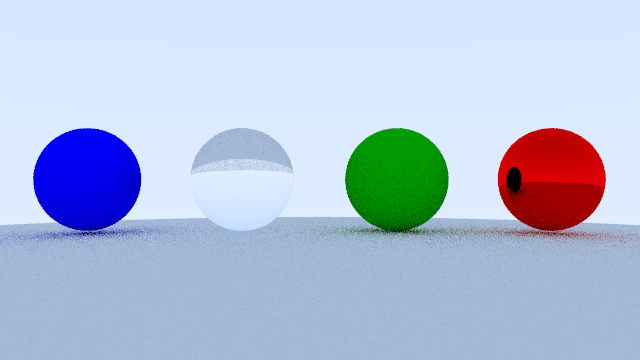
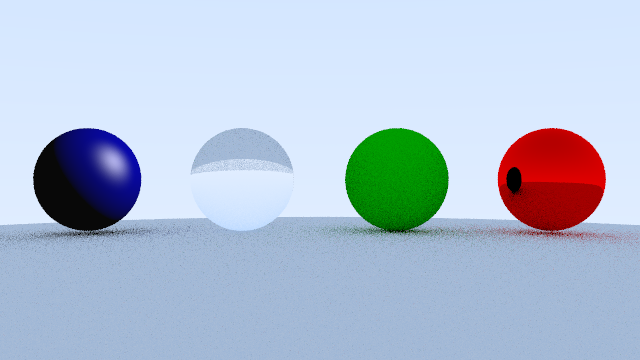
added basics, phong, and my feature

Changed region(s): [[0.0, 0.3361, 0.25, 0.6722], [0.5, 0.5806, 1.0, 0.6722], [0.7812, 0.5194, 0.8438, 0.55]]

diff --git a/src/raytracer.cpp b/src/raytracer.cpp
@@ -13,6 +13,12 @@ using namespace glm;
 using namespace agl;
 using namespace std;
 
+color air_shade;
+
+void set_air_shade(vec3 shade) {
+    air_shade = shade;
+}
+
 color ray_color(const ray& r, const hittable_list& world, int depth)
 {
    hit_record rec;
@@ -34,7 +40,7 @@ color ray_color(const ray& r, const hittable_list& world, int depth)
    }
    vec3 unit_direction = normalize(r.direction());
    auto t = 0.5f * (unit_direction.y + 1.0f);
-   return (1.0f - t) * color(1, 1, 1) + t * color(0.5f, 0.7f, 1.0f);
+   return (1.0f - t) * color(1, 1, 1) + t * air_shade;
 }
 
 color normalize_color(const color& c, int samples_per_pixel)
@@ -53,6 +59,15 @@ color normalize_color(const color& c, int samples_per_pixel)
    return color(r, g, b);
 }
 
+
+float rand_fl(float a, float b) {
+    float random = ((float)rand()) / (float)RAND_MAX;
+    float diff = b - a;
+    float r = random * diff;
+    return a + r;
+}
+
+
 void ray_trace(ppm_image& image)
 {
    // Image
@@ -62,42 +77,69 @@ void ray_trace(ppm_image& image)
    int samples_per_pixel = 10; // higher => more anti-aliasing
    int max_depth = 10; // higher => less shadow acne
 
-   // World
-   shared_ptr<material> gray = make_shared<lambertian>(color(0.5f));
+   // Camera
+   vec3 camera_pos(0, 0, 6);
+   float viewport_height = 2.0f;
+   float focal_length = 4.0;
+   camera cam(camera_pos, viewport_height, aspect, focal_length);
 
+   // World
+   shared_ptr<material> gray = make_shared<lambertian>(color(0.7f));
+   shared_ptr<material> matteGreen = make_shared<lambertian>(color(0, 0.5f, 0));
+   shared_ptr<material> planet = make_shared<metal>(color(0.74f, 0.1f, 0.38f), 0.3f);
+   shared_ptr<material> metalRed = make_shared<metal>(color(1, 0, 0), 0.3f);
+   shared_ptr<material> glass = make_shared<dielectric>(1.5f);
+   shared_ptr<material> phongDefault = make_shared<phong>(camera_pos);
 
 
    hittable_list world;
-   world.add(make_shared<sphere>(point3(0, 0, -1), 0.5f, gray));
-   world.add(make_shared<sphere>(point3(0, -100.5, -1), 100, gray));
-   shared_ptr<material> metalRed = make_shared<metal>(color(1, 0, 0), 0.3f);
-   shared_ptr<material> glass = make_shared<dielectric>(1.5f);
+
+   shared_ptr<material> space_purple = make_shared<metal>(color(0.01f, 0.01f, 0.02f), 0.3f);
+
+   world.add(make_shared<sphere>(point3(0, -100.5, -1), 100, space_purple));
 
 
-   // Camera
-   vec3 camera_pos(0);
-   float viewport_height = 2.0f;
-   float focal_length = 1.0;
-   camera cam(camera_pos, viewport_height, aspect, focal_length);
 
-   // Ray trace
-   for (int j = 0; j < height; j++)
-   {
-      for (int i = 0; i < width; i++)
-      {
-         color c(0, 0, 0);
-         for (int s = 0; s < samples_per_pixel; s++) // antialias
-         {
-            float u = float(i + random_float()) / (width - 1);
-            float v = float(height - j - 1 - random_float()) / (height - 1);
-
-            ray r = cam.get_ray(u, v);
-            c += ray_color(r, world, max_depth);
-         }
-         c = normalize_color(c, samples_per_pixel);
-         image.set_vec3(j, i, c);
-      }
+   // add planet spheres
+   for (int i = -3.5; i <= 3.5; i += 1.5) {
+       for (int j = -0.5; j <= 2.5; j += 1.25) {
+           for (int k = 0; k <= 5; k += 1.75) {
+               color new_col = color(rand_fl(0.0f, 1.0f), rand_fl(0.0f, 0.5f), rand_fl(0.0f, 1.0f));
+               world.add(make_shared<sphere>(point3(i, j, k), rand_fl(0.05f, 0.2f), make_shared<metal>(new_col, 0.3f)));
+           }
+       }
    }
 
-   image.save("raytracer.png");
+   // add spheres and raytrace them
+   for (int i = -2.5; i <= 2.5; i += 1.75) {
+       for (int j = 0.5; j <= 3.5; j += 1.5) {
+           for (int k = 0.25; k < 2.5; k += 1.25) {
+               color new_col = color(1, 1, 1);
+               world.add(make_shared<sphere>(point3(i, j, k), rand_fl(0.005f, 0.05f), make_shared<lambertian>(new_col)));
+           }
+       }
+   }
+
+   // Ray trace spheres
+   for (int j = 0; j < height; j++)
+   {
+       for (int i = 0; i < width; i++)
+       {
+           color c(0, 0, 0);
+           for (int s = 0; s < samples_per_pixel; s++) // antialias
+           {
+               float u = float(i + random_float()) / (width - 1);
+               float v = float(height - j - 1 - random_float()) / (height - 1);
+
+               ray r = cam.get_ray(u, v);
+               c += ray_color(r, world, max_depth);
+           }
+           c = normalize_color(c, samples_per_pixel);
+           image.set_vec3(j, i, c);
+       }
+   }
+
+   image.save("myspace.png");
+
+
 }

diff --git a/src/normals.cpp b/src/normals.cpp
@@ -7,12 +7,60 @@ using namespace glm;
 using namespace agl;
 using namespace std;
 
+float hit_sphere(const ray& ray, const vec3& center, float radius)
+{
+    vec3 oc = ray.origin() - center;
+    float a = dot(ray.direction(), ray.direction());
+    float b = 2.0f * dot(oc, ray.direction());
+    float c = dot(oc, oc) - radius * radius;
+
+    float discriminant = b * b - 4 * a * c;
+    if (discriminant < 0) return -1;
+    return (-b - sqrt(discriminant)) / 2 * a;
+}
+
 color ray_color(const ray& ray)
 {
-   return color(0);
+    point3 sphere_center = point3(0, 0, -1);
+    float t = hit_sphere(ray, sphere_center, 0.5f);
+    if (t > 0){
+        vec3 hit_point = ray.origin() + t * ray.direction();
+        vec3 normal = normalize(hit_point - sphere_center);
+        color color = 0.5f * (normal + vec3(1));
+        return color;
+    }
+    vec3 dir = normalize(ray.direction());
+    t = 0.5f * (dir.y + 1.0f);
+
+    color white = color(1.0f, 1.0f, 1.0f);
+    color lightBlue = color(0.5f, 0.7f, 1.0f);
+
+    return white * (1 - t) + t * lightBlue;
 }
 
 void ray_trace(ppm_image& image)
 {
-   image.save("normals.png");
+    int height = image.height();
+    int width = image.width();
+    float aspect = width / (float)height;
+    float world_height = 2.0f;
+    float world_width = world_height * aspect;
+    float focal_length = 1.0f;
+    vec3 camera_pos = vec3(0);
+    vec3 lower_left = camera_pos
+        - 0.5f * vec3(world_width, world_height, 0)
+        - vec3(0, 0, focal_length);
+    for (int i = 0; i < height; i++) // rows
+    {
+        for (int j = 0; j < width; j++) // cols
+        {
+            float u = j / ((float)width - 1);
+            float v = (height - i - 1) / ((float)height - 1);
+            vec3 world_pos = lower_left +
+                vec3(u * world_width, v * world_height, 0);
+            color c = ray_color(ray(camera_pos, world_pos - camera_pos));
+            image.set_vec3(i, j, c);
+        }
+    }
+    image.save("normals.png");
 }

diff --git a/src/silhouette.cpp b/src/silhouette.cpp
@@ -2,15 +2,61 @@
 #include "AGLM.h"
 #include "ray.h"
 
+#include "sphere.h"
+#include "camera.h"
+#include "material.h"
+#include "hittable_list.h"
 using namespace glm;
 using namespace agl;
 
+float hit_sphere(const ray& ray, const vec3& center, float radius)
+{
+    vec3 oc = ray.origin() - center;
+    float a = dot(ray.direction(), ray.direction());
+    float b = 2.0f * dot(oc, ray.direction());
+    float c = dot(oc, oc) - radius * radius;
+
+    float discriminant = b * b - 4 * a * c;
+    if (discriminant < 0) return -1;
+    return (-b - sqrt(discriminant)) / 2 * a;
+}
+
 color ray_color(const ray& ray)
 {
-   return color(0); 
+    if (hit_sphere(ray, point3(0.0f, 0.0f, -1.0f), 0.5) > 0) {
+        return color(1, 0, 0);
+    }
+
+    vec3 dir = normalize(ray.direction());
+    float t = 0.5f * (dir.y + 1.0f);
+    color white = color(1.0f, 1.0f, 1.0f);
+    color lightBlue = color(0.5f, 0.7f, 1.0f);
+    return white * (1 - t) + lightBlue * t;
 }
 
 void ray_trace(ppm_image& image)
 {
-   image.save("silhouette.ppm");
+    int height = image.height();
+    int width = image.width();
+    float aspect = width / (float)height;
+    float world_height = 2.0f;
+    float world_width = world_height * aspect;
+    float focal_length = 1.0f;
+    vec3 camera_pos = vec3(0);
+    vec3 lower_left = camera_pos
+        - 0.5f * vec3(world_width, world_height, 0)
+        - vec3(0, 0, focal_length);
+    for (int i = 0; i < height; i++) // rows
+    {
+        for (int j = 0; j < width; j++) // cols
+        {
+            float u = j / ((float)width - 1);
+            float v = (height - i - 1) / ((float)height - 1);
+            vec3 world_pos = lower_left +
+                vec3(u * world_width, v * world_height, 0);
+            color c = ray_color(ray(camera_pos, world_pos - camera_pos));
+            image.set_vec3(i, j, c);
+        }
+    }
+   image.save("silhouette.png");
 }

diff --git a/src/gradient.cpp b/src/gradient.cpp
@@ -9,13 +9,37 @@ using namespace std;
 
 color ray_color(const ray& ray)
 {
-   return color(0);
+    color white = color(1.0f, 1.0f, 1.0f);
+    color lightBlue = color(0.5f, 0.7f, 1.0f);
+
+    vec3 dir = normalize(ray.direction());
+    float t = 0.5f * (dir.y + 1.0f);
+    return white * (1 - t) + lightBlue * t;
 }
 
 void ray_trace(ppm_image& image)
 {
-   int height = image.height();
-   int width = image.width();
-
-   image.save("gradient.png");
+    int height = image.height();
+    int width = image.width();
+    float aspect = width / (float)height;
+    float world_height = 2.0f;
+    float world_width = world_height * aspect;
+    float focal_length = 1.0f;
+    vec3 camera_pos = vec3(0);
+    vec3 lower_left = camera_pos
+        - 0.5f * vec3(world_width, world_height, 0)
+        - vec3(0, 0, focal_length);
+    for (int i = 0; i < height; i++) // rows
+    {
+        for (int j = 0; j < width; j++) // cols
+        {
+            float u = j / ((float)width - 1);
+            float v = (height - i - 1) / ((float)height - 1);
+            vec3 world_pos = lower_left +
+                vec3(u * world_width, v * world_height, 0);
+            color c = ray_color(ray(camera_pos, world_pos - camera_pos));
+            image.set_vec3(i, j, c);
+        }
+    }
+    image.save("gradient.png");
 }

diff --git a/src/material.h b/src/material.h
@@ -67,17 +67,24 @@ public:
     virtual bool scatter(const ray& r_in, const hit_record& hit,
         glm::color& attenuation, ray& scattered) const override
     {
-        // todo
-        // attenuation = glm::color(0);
-        vec3 scatter_direction = hit.normal + random_unit_vector();
-        if (near_zero(scatter_direction))
-        {
-            scatter_direction = hit.normal;
-        }
-        scattered = ray(hit.p, scatter_direction);
-        attenuation = diffuseColor;
-        return true;
-        //return false;
+        // calc diffuse using lambertian v1
+        glm::vec3 unitn = normalize(hit.normal);
+        glm::vec3 lightDir = normalize(lightPos - hit.p);
+        glm::color diffuse = kd * max(vec3(0), dot(unitn, lightDir)) * diffuseColor;
+
+        //calc ambient
+        glm::color ambient = ka * ambientColor;
+
+        // calc specular
+        glm::vec3 unitr = normalize(2 * dot(lightDir, unitn) * unitn - lightDir);
+        glm::vec3 unitv = normalize(viewPos - hit.p);
+        float helper = std::max(0.0f, dot(unitv, unitr));
+        glm::color specular = ks * specColor * pow(helper, shininess);
+
+        glm::color final = ambient + diffuse + specular;
+
+        attenuation = final;
+        return false;
     }
 
 public:

diff --git a/src/main.cpp b/src/main.cpp
@@ -7,6 +7,7 @@
 #include <iostream>
 
 extern void ray_trace(agl::ppm_image& image);
+extern void set_air_shade(glm::vec3 shade);
 
 const GLchar* vertexShader[] =
 {
@@ -132,6 +133,10 @@ int main(int argc, char** argv)
         -1.0f,  1.0f, 0.0f
     };
 
+    /*glEnable(GL_DEPTH_TEST);
+    glEnable(GL_CULL_FACE);
+    glClearColor(0, 0, 0, 1);*/
+
     GLuint vboId;
     glGenBuffers(1, &vboId);
     glBindBuffer(GL_ARRAY_BUFFER, vboId);
@@ -145,6 +150,7 @@ int main(int argc, char** argv)
     glVertexAttribPointer(0, 3, GL_FLOAT, GL_FALSE, 0, (GLubyte*)NULL);
 
     agl::ppm_image image(width, height);
+    set_air_shade(glm::vec3(0.2f, 0.016f, 0.369f));
     ray_trace(image);
     std::cout << "Loaded image: " << image.width() << "x" << image.height() << std::endl;
 

diff --git a/src/basic.cpp b/src/basic.cpp
@@ -14,7 +14,12 @@ using namespace agl;
 using namespace std;
 
 
+color air_shade = color(0.5f, 0.7f, 1.0f);
 
+void set_air_shade(vec3 shade) {
+    air_shade = shade;
+    cout << air_shade<<endl;
+}
 
 color ray_color(const ray& r, const hittable_list& world, int depth)
 {
